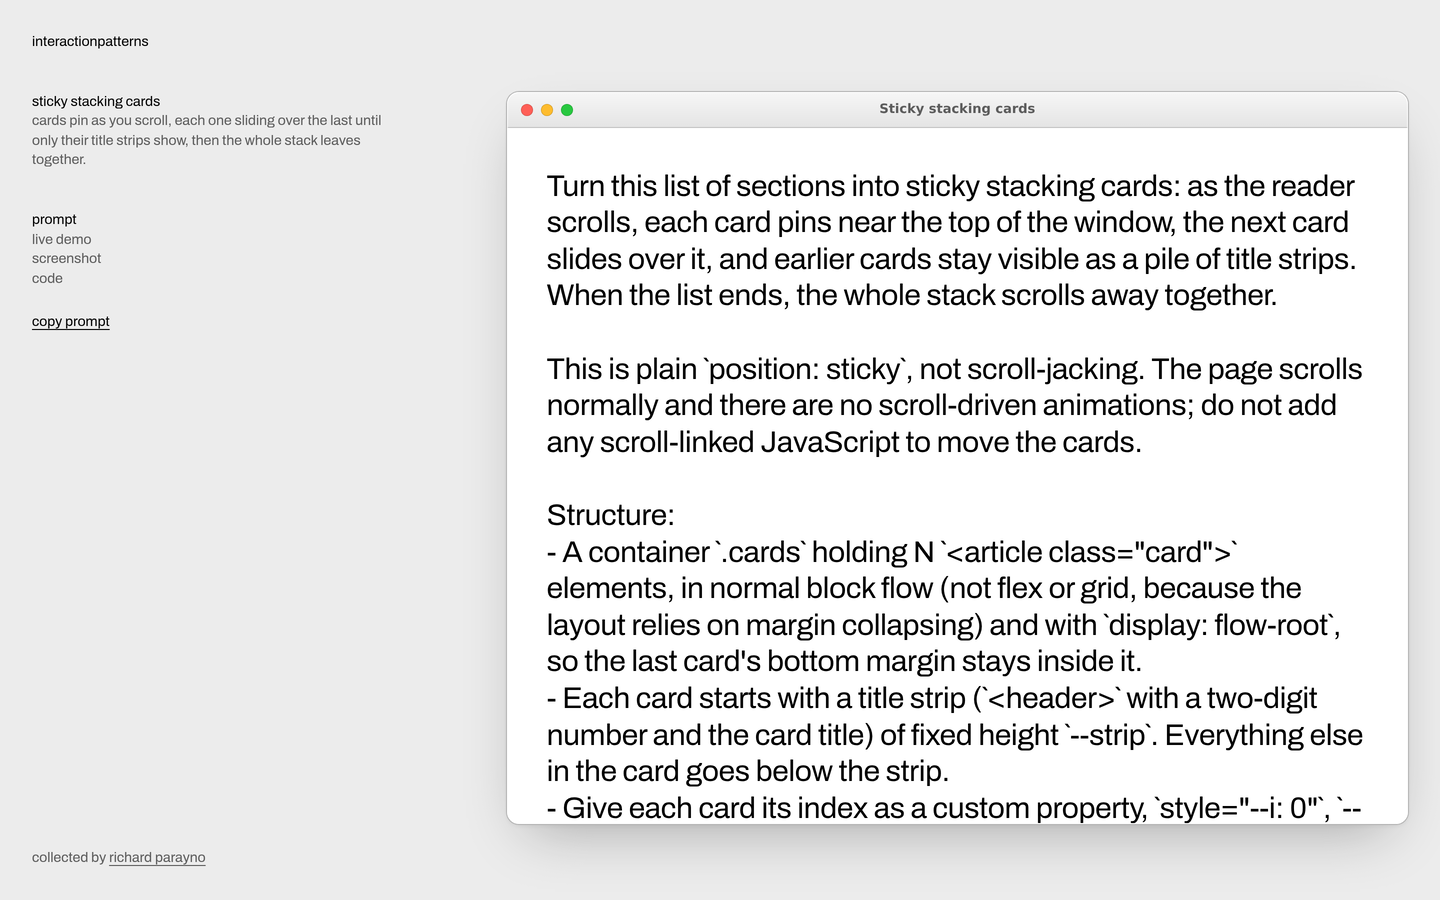
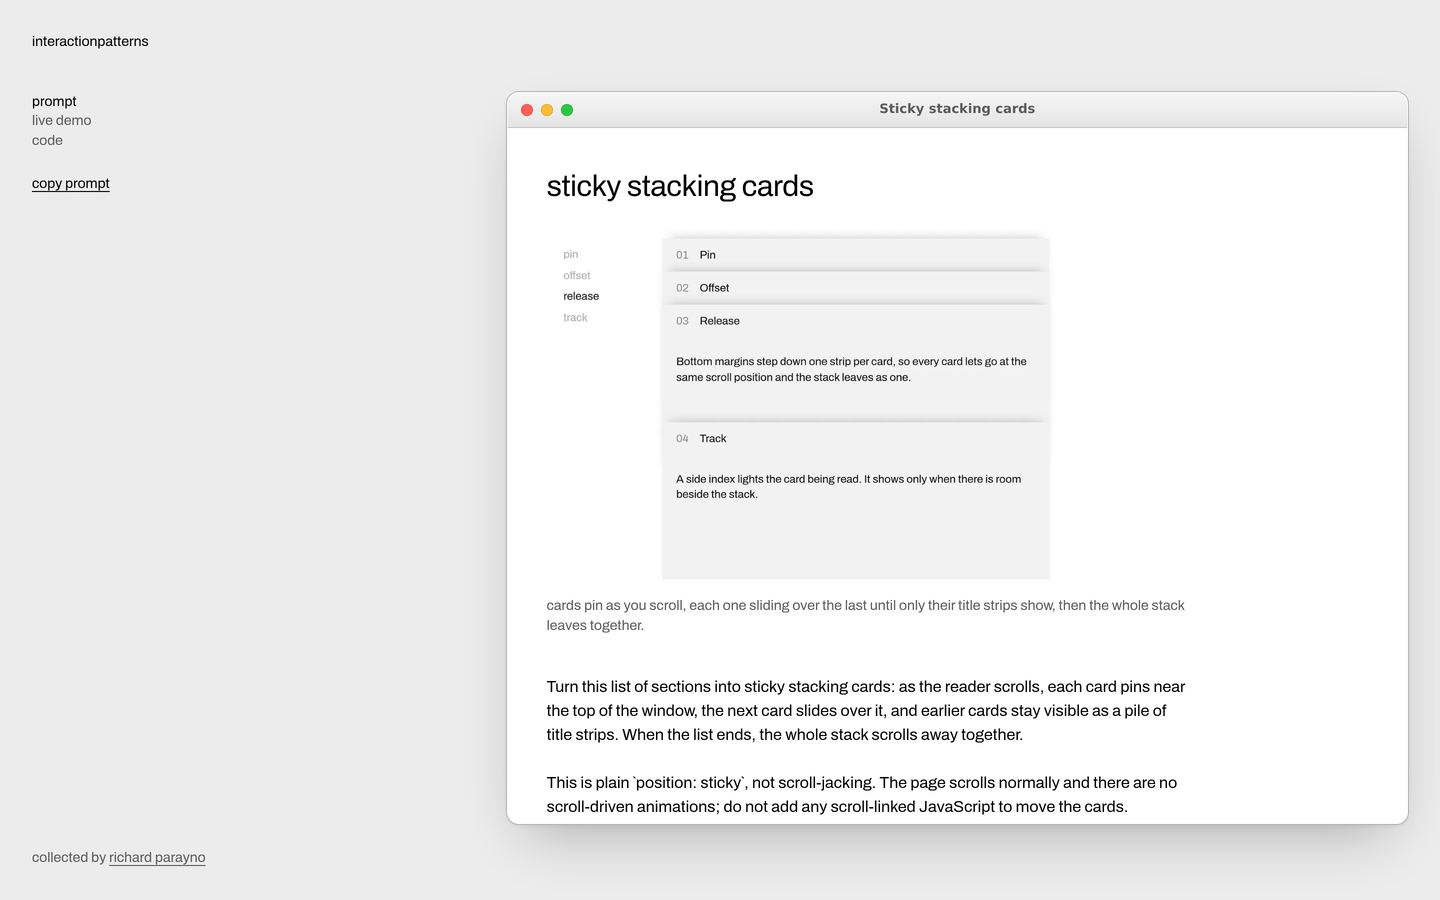
Open the pattern window with the name, screenshot and summary
From the Visual design thread's revised third handoff, after Richard
asked for smaller prompt text and the pattern's name, screenshot and
description at the top of the window's first view. The separate
screenshot view is gone (views are now #prompt, #demo, #code), the rail
holds only the view links and copy prompt, and the window title is the
page's h1. README screenshot recaptured.

Amp-Thread-ID: https://ampcode.com/threads/T-01a1c244-dba5-75fc-bf28-f9d217b92c65

diff --git a/src/styles/global.css b/src/styles/global.css
@@ -1,5 +1,5 @@
 /*
- * The whole visual system: a grey ground and black text, in two type sizes
+ * The whole visual system: a grey ground and black text, in three type sizes
  * and one weight. Hierarchy comes from space and position, and surfaces are
  * told apart by tone. The only lines and the only colour are on the macOS
  * window that holds a pattern (Window.astro).
@@ -17,10 +17,12 @@
   /* Type */
   --font-sans: "Archivo", "Helvetica Neue", Helvetica, Arial, sans-serif;
   --font-mono: "Ioskeley Mono", ui-monospace, "SF Mono", Menlo, Consolas, monospace;
-  --text-small: 0.875rem;
+  --text-small: 0.875rem; /* site text */
+  --text-medium: 1rem; /* reading text: the prompt */
   --text-large: clamp(1.375rem, 1rem + 1.25vw, 1.875rem);
   --text-code: 0.8125rem;
   --leading-small: 1.4;
+  --leading-medium: 1.5;
   --leading-large: 1.22;
   --tracking-large: -0.012em;
 
@@ -39,6 +41,7 @@
 
   --page-pad: clamp(1rem, 0.5rem + 2vw, 2rem);
   --gutter: var(--space-3);
+  --measure: 40rem; /* widest a column of reading text gets */
   --section-gap: var(--space-8);
 }
 

diff --git a/README.md b/README.md
@@ -5,7 +5,7 @@ has a name, a screenshot, a live demo, sample code, and a copy-pastable prompt
 for AI coding agents. Built as a static site with [Astro](https://astro.build/)
 and deployed to Cloudflare Workers.
 
-![A pattern page: the name, view links, and a copy-prompt link in the left rail, the agent prompt inside a macOS-style window beside it](docs/screenshot.png)
+![A pattern page: view links and a copy-prompt link in the left rail; beside them a macOS-style window opening with the pattern name, its screenshot, the summary, and the agent prompt](docs/screenshot.png)
 
 ## Stack
 
@@ -31,9 +31,9 @@ and deployed to Cloudflare Workers.
 │   │   ├── PageGrid.astro        # Rail and main column
 │   │   ├── PatternList.astro     # Index wheel picker; the centred pattern's screenshot and summary
 │   │   ├── SoundToggle.astro     # Turns the wheel's tick sound on or off
-│   │   ├── PatternHeader.astro   # Pattern name, summary, and links in the rail
+│   │   ├── PatternHeader.astro   # Name, screenshot, and summary atop the prompt view
 │   │   ├── Window.astro          # macOS-style window holding a pattern's views
-│   │   ├── WindowView.astro      # One view (prompt, demo, screenshot, code), shown via #id
+│   │   ├── WindowView.astro      # One view (prompt, demo, code), shown via #id
 │   │   ├── WindowNav.astro       # Text links that switch views
 │   │   ├── Prompt.astro          # The agent prompt, shown verbatim
 │   │   ├── CopyButton.astro      # Copies an element's text to the clipboard
